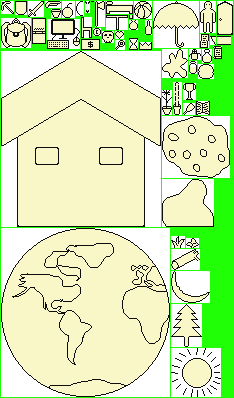
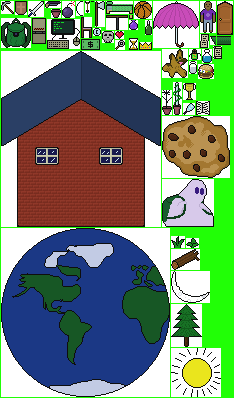
color graphics

diff --git a/src/game/main.c b/src/game/main.c
@@ -20,7 +20,12 @@ int egg_client_init() {
   
   g.man.x=FBW>>1;
   g.man.y=FBH>>1;
-  //g.man.carry_item=D_Equipment_bomb;
+  g.man.carry_item=DECAL_milk;
+  
+  g.platformv[g.platformc++]=(struct platform){ 10,100, 81};
+  g.platformv[g.platformc++]=(struct platform){110,140, 61};
+  g.platformv[g.platformc++]=(struct platform){ 50, 80, 81};
+  g.platformv[g.platformc++]=(struct platform){300,100,101};
   
   return 0;
 }
@@ -29,6 +34,10 @@ void egg_client_update(double elapsed) {
 
   int input=egg_input_get_one(0);
   if (input!=g.pvinput) {
+    if ((input&EGG_BTN_SOUTH)&&!(g.pvinput&EGG_BTN_SOUTH)) {//XXX
+      g.dp++;
+      if (g.dp>=DECAL_COUNT) g.dp=0;
+    }
     if ((input&EGG_BTN_SOUTH)&&!(g.pvinput&EGG_BTN_SOUTH)) switch (g.man.larm) {
       case MAN_ARM_DOWN: g.man.larm=MAN_ARM_SIDE; break;
       case MAN_ARM_SIDE: g.man.larm=MAN_ARM_UP; break;
@@ -70,9 +79,18 @@ void egg_client_update(double elapsed) {
 void egg_client_render() {
   g.framec++;
   graf_reset(&g.graf);
-  graf_draw_rect(&g.graf,0,0,FBW,FBH,0xf9f6c7ff);
+  graf_draw_rect(&g.graf,0,0,FBW,FBH,0xa0b0e0ff);
+  
+  struct platform *platform=g.platformv;
+  int i=g.platformc;
+  for (;i-->0;platform++) platform_render(platform);
   
   man_render(&g.man);
+  
+  {//XXX
+    const struct decal *d=decalv+g.dp;
+    graf_draw_decal(&g.graf,g.texid,(FBW>>1)-(d->w>>1),(FBH>>1)-(d->h>>1),d->x,d->y,d->w,d->h,0);
+  }
   
   graf_flush(&g.graf);
 }

diff --git a/src/game/platform.c b/src/game/platform.c
@@ -1,0 +1,19 @@
+#include "game.h"
+
+/* Render.
+ */
+ 
+void platform_render(struct platform *platform) {
+  const struct decal *dedge=decalv+DECAL_edge;
+  const struct decal *dfill=decalv+DECAL_platform;
+  int xz=platform->x+platform->w-dedge->w; // column where the fill ends.
+  int x=platform->x;
+  graf_draw_decal(&g.graf,g.texid,x,platform->y,dedge->x,dedge->y,dedge->w,dedge->h,0);
+  x+=dedge->w;
+  while (x+dfill->w<=xz) {
+    graf_draw_decal(&g.graf,g.texid,x,platform->y,dfill->x,dfill->y,dfill->w,dfill->h,0);
+    x+=dfill->w;
+  }
+  graf_draw_decal(&g.graf,g.texid,x,platform->y,dfill->x,dfill->y,xz-x,dfill->h,0);
+  graf_draw_decal(&g.graf,g.texid,xz,platform->y,dedge->x,dedge->y,dedge->w,dedge->h,EGG_XFORM_XREV);
+}

diff --git a/src/game/game.h b/src/game/game.h
@@ -4,12 +4,15 @@
 #define FBW 448
 #define FBH 252
 
+#define PLATFORM_LIMIT 16
+
 #include "egg/egg.h"
 #include "opt/stdlib/egg-stdlib.h"
 #include "opt/graf/graf.h"
 #include "egg_rom_toc.h"
 #include "shared_symbols.h"
 #include "man.h"
+#include "platform.h"
 
 extern struct g {
   void *rom;
@@ -19,6 +22,9 @@ extern struct g {
   int framec;
   int texid;
   struct man man;
+  struct platform platformv[PLATFORM_LIMIT];
+  int platformc;
+  int dp;//XXX
 } g;
 
 #endif

diff --git a/src/game/platform.h b/src/game/platform.h
@@ -1,0 +1,17 @@
+/* platform.h
+ * They haven't given us much that could credibly pass for terrain.
+ * We do have two useful decals: edge and platform.
+ * Height of a platform is always 9 pixels.
+ * Width must be odd and greater than 12.
+ */
+
+#ifndef PLATFORM_H
+#define PLATFORM_H
+
+struct platform {
+  int x,y,w; // Position and size in world pixels. (y) is my top edge, the business edge.
+};
+
+void platform_render(struct platform *platform);
+
+#endif

diff --git a/src/game/shared_symbols.h b/src/game/shared_symbols.h
@@ -60,7 +60,7 @@
 #define DECAL_crown 33
 #define DECAL_scroll 34
 #define DECAL_blob 35
-#define DECAL_bug 36
+#define DECAL_candy 36
 #define DECAL_widemouth 37
 #define DECAL_house 38
 #define DECAL_milk 39

diff --git a/README.md b/README.md
@@ -11,6 +11,9 @@ I am going to modify the graphics in at least two ways:
  - Combine all decals in one image.
  - Shuffle positions such that all decals are reachable.
  - Recolor the shotgun's outline. It's crazy to have two different blacks when there's otherwise just two colors total.
+ - Replace all the off-yellow pixels with colors of my choosing.
+ - One pixel of the Mediterranean was transparent, between Italy and Tunisia. I made it blue.
+ - Ditto one pixel around New Orleans.
  
 rishita wrote on Discord:
 heres the deal: you must use only these provided visual assets. 
@@ -20,3 +23,7 @@ modifications dont drastically change the individual graphics to the point where
 they no longer resemble their original character or composition.
 
 Seems we are well within rights to make those two changes.
+
+Can I allow myself the liberty to change all the off-yellow pixels too?
+rishita certainly implies so.
+Keeping them in the original colors, I just can't, it's so fucking ugly.
